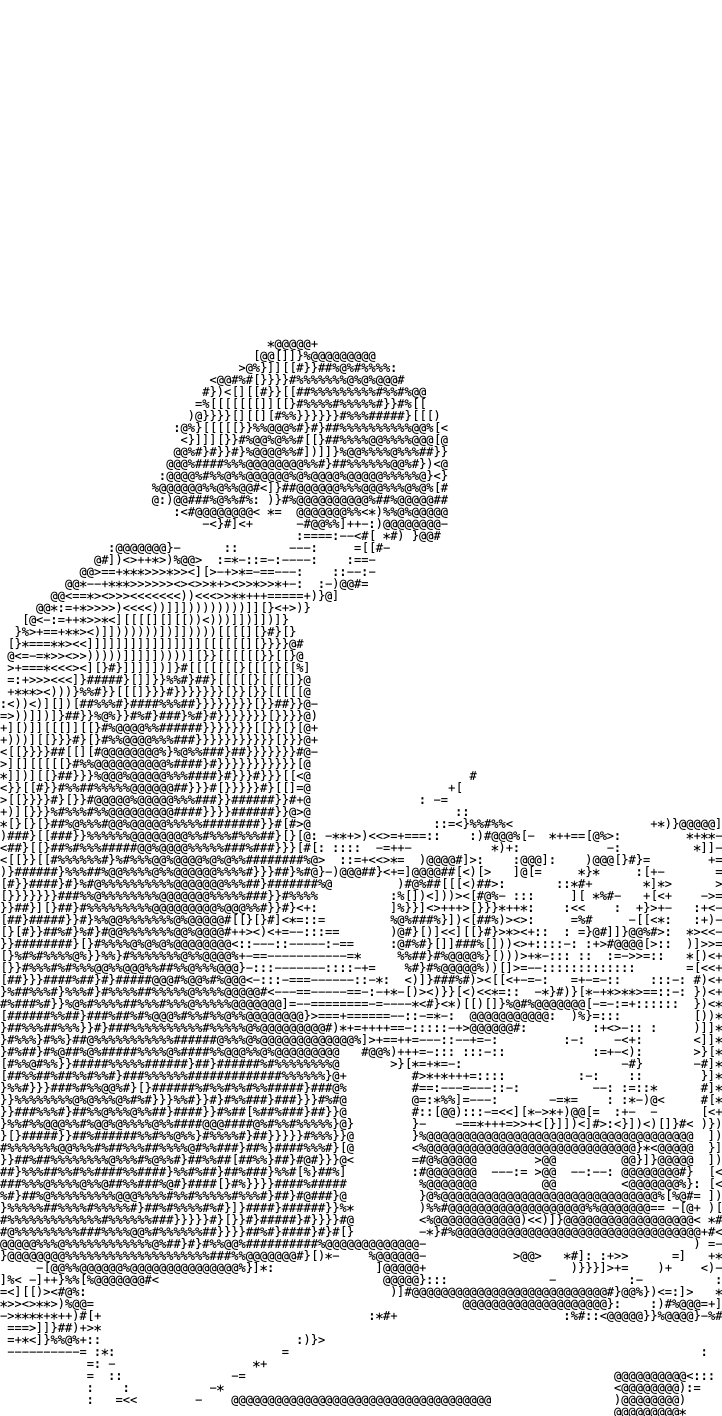
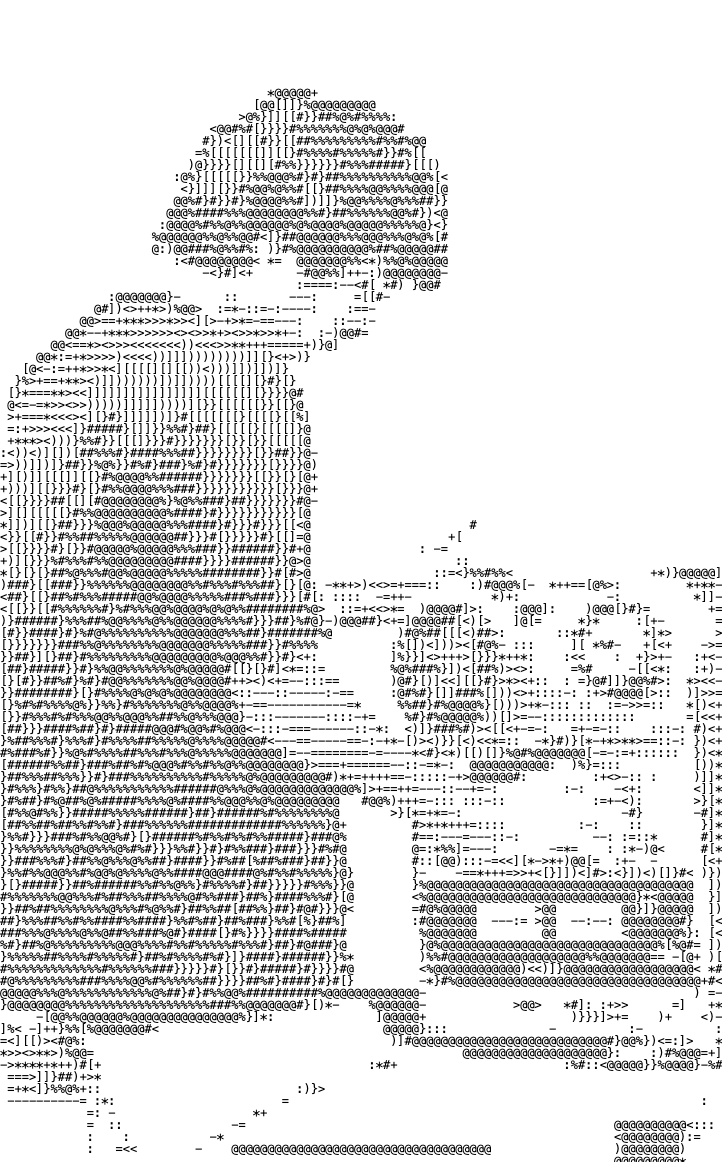
Add press image to header, inverted to match dark theme

diff --git a/index.html b/index.html
@@ -70,9 +70,13 @@
 
     .header-image {
       flex-shrink: 0;
-      width: 220px;
-      height: auto;
+      width: 192px;
+      align-self: stretch;
+      object-fit: contain;
+      object-position: top right;
       border-radius: 4px;
+      filter: invert(1);
+      opacity: 0.8;
     }
 
     h1 {
@@ -137,6 +141,22 @@
       color: var(--accent);
       padding-bottom: 16px;
       border-bottom: 1px solid var(--border);
+    }
+
+    /* Press image */
+    .press-image-wrap {
+      max-width: 720px;
+      margin: 0 auto;
+      padding: 48px 24px 0;
+    }
+    .press-image {
+      width: 100%;
+      max-height: 320px;
+      object-fit: contain;
+      filter: invert(1);
+      opacity: 0.7;
+      display: block;
+      margin: 0 auto;
     }
 
     /* Projects */
@@ -256,6 +276,8 @@
           <h1>Anant Rohmetra</h2>
           <p>Research assistant at the (Art)Science Lab, Srishti Manipal University and The Indian Sonic Research Organisation. Working at the intersection of multimedia arts and technology — collaborating with designers, multimedia artists and engineers through open-community labs with emphasis on DIY approach and open-source technology to decentralize creative tools.</p>
       </div>
+      <img src="Press-Image.png" alt="Anant Rohmetra" class="header-image">
+    </div>
     </div>
   </header>
 
